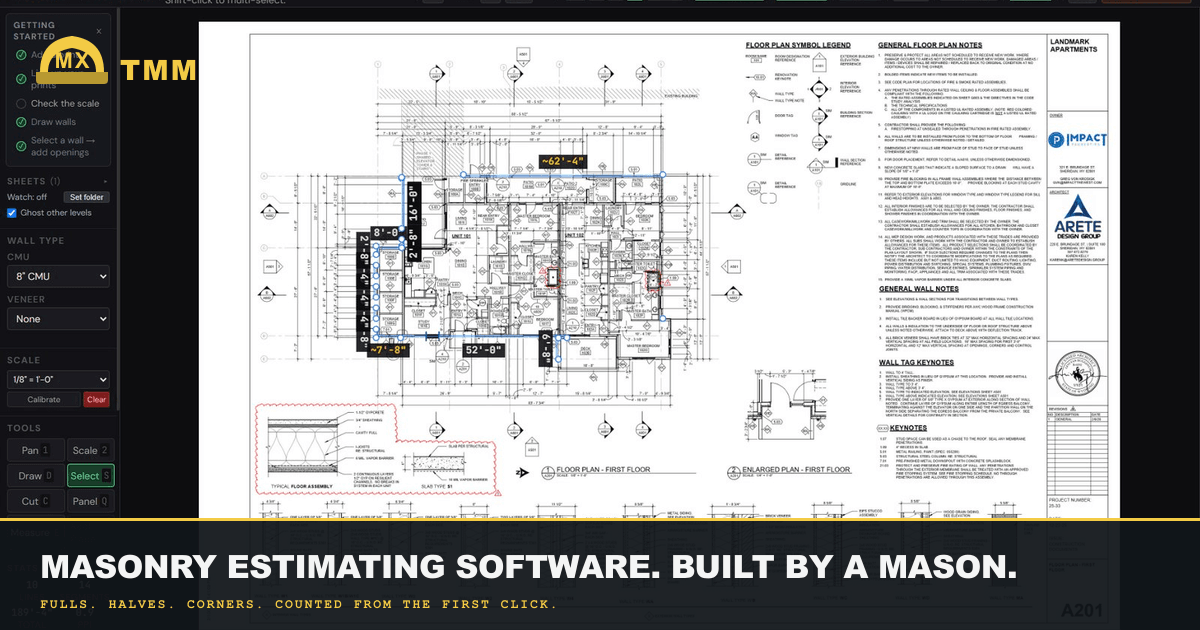
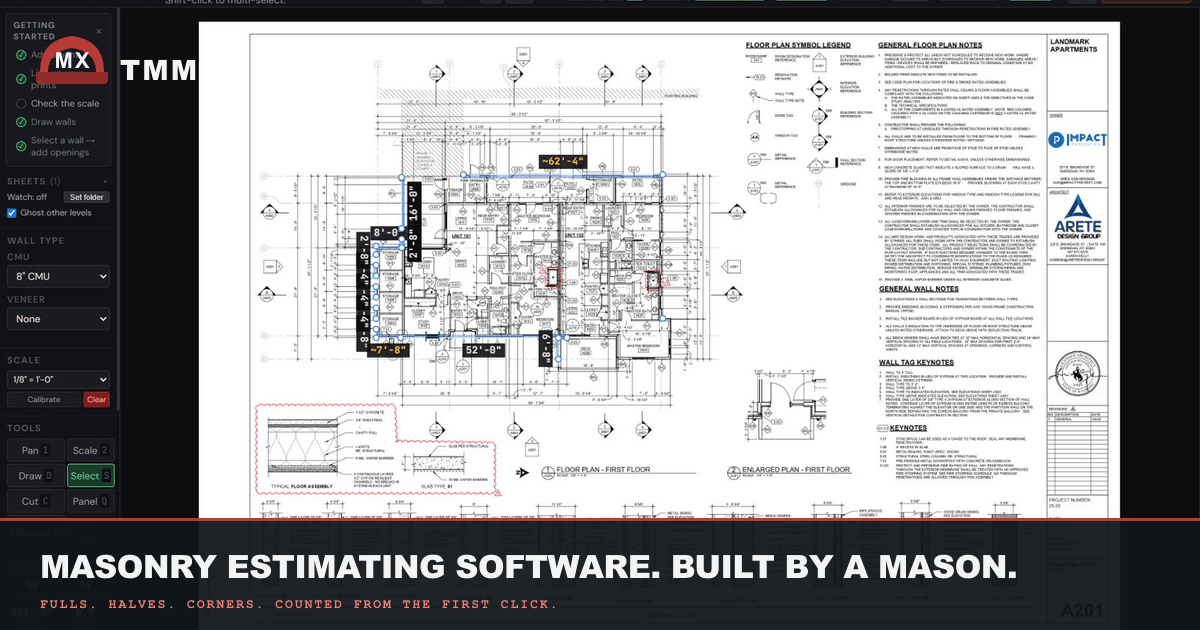
Use brick red accents across the marketing website

diff --git a/src/styles/global.css b/src/styles/global.css
@@ -1,14 +1,15 @@
 /* ============================================================
    THE MASONRY MODELER — Global Styles
-   Design language: contractor field sheets / concrete, charcoal, safety yellow
+   Design language: contractor field sheets / concrete, charcoal, brick red
    ============================================================ */
 
 :root {
-  /* Safety yellow is a surface/highlight, never small text on concrete. */
-  --signal: #f3cb45;
-  --signal-hover: #ffda61;
-  --signal-ink: #4d430a;
-  --on-signal: #171b1e;
+  /* Brick red actions use white labels; dark surfaces use the lighter text accent. */
+  --signal: #b83c36;
+  --signal-hover: #9e302b;
+  --signal-ink: #922d29;
+  --signal-light: #ed8178;
+  --on-signal: #ffffff;
   --terracotta: var(--signal);
   --terracotta-dark: var(--signal-ink);
   --navy: #292f34;
@@ -358,7 +359,7 @@ body {
 }
 
 .hero-sub strong {
-  background: linear-gradient(180deg, transparent 60%, rgba(243, 203, 69, 0.25) 60%);
+  background: linear-gradient(180deg, transparent 60%, rgba(184, 60, 54, 0.25) 60%);
   font-weight: 600;
 }
 
@@ -2727,7 +2728,7 @@ body {
 
 .bar-list-table tbody + tbody tr:first-child th,
 .bar-list-table tbody + tbody tr:first-child td {
-  border-top: 2px solid rgba(243, 203, 69, 0.3);
+  border-top: 2px solid rgba(184, 60, 54, 0.3);
 }
 
 .bar-mark { display: block; }
@@ -2852,7 +2853,7 @@ body {
   .comparison-col:last-child, .diff-th-tmm, .diff-td-tmm, .bar-list-details) {
   --text-body: #d5dce0;
   --text-muted: #b5c0c8;
-  --accent-text: var(--signal);
+  --accent-text: var(--signal-light);
   --line: #56616a;
 }
 :where(.sheet-index-panel, .hero-form, .render-stats, .rule-card,
@@ -2876,7 +2877,7 @@ button, input, select, textarea { font-family: var(--font-body); }
 ::selection { background: var(--signal); color: var(--on-signal); }
 :where(section[id], h2[id]) { scroll-margin-top: 100px; }
 
-/* Dark, level header. Navigation stays distinct from the yellow action. */
+/* Dark, level header. Navigation stays distinct from the red action. */
 .title-block { background: var(--navy-deep); color: var(--chalk); border-bottom: 1px solid #48535c; }
 .tb-cell { border-right-color: #48535c; }
 .tb-label { color: #b5c0c8; }
@@ -2889,9 +2890,9 @@ button, input, select, textarea { font-family: var(--font-body); }
 .tb-cta:hover { background: var(--signal-hover); }
 .tb-cta .tb-value { color: var(--on-signal); }
 .sheet-index-panel { border-color: var(--line); }
-.sheet-index-entry.is-current { --accent-text: var(--signal); }
-.mx-mark .mx-letters { fill: var(--on-signal); }
-.mx-mark .mx-brim { fill: #be9e32; }
+.sheet-index-entry.is-current { --accent-text: var(--signal-light); }
+.mx-mark .mx-letters { fill: var(--signal-ink); }
+.mx-mark .mx-brim { fill: var(--signal-ink); }
 
 /* The wall footage is the hero; no grid overlay, slanted type or fake depth. */
 .hero { min-height: auto; padding: 64px 0 72px; background: var(--navy-deep); color: var(--chalk); }
@@ -2907,11 +2908,11 @@ button, input, select, textarea { font-family: var(--font-body); }
 .hero-form { border: 1px solid #a4afb7; }
 .hero-form-input { font-family: var(--font-body); font-size: 16px; }
 .hero-form-input:focus-visible { outline: 2px solid var(--ink); outline-offset: -2px; }
-.hero-form-success { color: var(--signal); font-family: var(--font-body); font-size: 16px; letter-spacing: 0; }
+.hero-form-success { color: var(--signal-light); font-family: var(--font-body); font-size: 16px; letter-spacing: 0; }
 .hero .hero-cta-secondary { color: var(--chalk); border-color: #8e9ca6; background: transparent; }
 .hero .hero-cta-secondary:hover { color: var(--chalk); background: #343e46; border-color: var(--chalk); }
 
-/* Yellow is reserved for actions and short markers, always with dark text. */
+/* Brick red actions and short markers use white labels. */
 .hero-cta, .blog-post-body .post-cta-inline {
   background: var(--signal); color: var(--on-signal);
   min-height: 48px; letter-spacing: .05em;

diff --git a/CLAUDE.md b/CLAUDE.md
@@ -181,16 +181,17 @@ Google Fonts loaded via `<link>` in `Layout.astro` with `display=swap`.
 
 ### Color tokens (updated at Ryan's request, September 25, 2026)
 
-The website uses cool concrete, charcoal, and restrained safety yellow. Avoid returning to warm cream/rust, italic editorial-serif headings, decorative grid overlays, or large offset shadows. Use upright Oswald headings and Barlow prose.
+The website uses cool concrete, charcoal, and restrained brick red. Avoid returning to warm cream/rust, italic editorial-serif headings, decorative grid overlays, or large offset shadows. Use upright Oswald headings and Barlow prose.
 
-Semantic text colors depend on the surrounding light/dark surface; yellow small text is not suitable on light concrete. Existing `--terracotta` names are compatibility aliases, not the old orange palette.
+Semantic text colors depend on the surrounding light/dark surface; deep brick red is for actions and light-surface text; use the lighter red text accent on charcoal. Existing `--terracotta` names are compatibility aliases, not the old orange palette.
 
 CSS custom properties are defined at the top of `global.css`.
 | Token | Hex | Use |
 |-------|-----|-----|
-| `--signal` | `#f3cb45` | Yellow actions and highlights |
-| `--signal-ink` | `#4d430a` | Readable accent text on light surfaces |
-| `--on-signal` | `#171b1e` | Text on yellow |
+| `--signal` | `#b83c36` | Brick red actions and highlights |
+| `--signal-ink` | `#922d29` | Readable red text on light surfaces |
+| `--signal-light` | `#ed8178` | Readable red text on dark surfaces |
+| `--on-signal` | `#ffffff` | White text on red actions |
 | `--navy` | `#292f34` | Charcoal panels |
 | `--navy-deep` | `#171b1e` | Header, hero, dark sections |
 | `--chalk` | `#f2f4f5` | Light concrete surface / light text |
@@ -198,7 +199,7 @@ CSS custom properties are defined at the top of `global.css`.
 | `--concrete` | `#c3cbd0` | Secondary light text |
 | `--concrete-light` | `#e1e6e9` | Concrete surface |
 | `--text-muted` | context-dependent | Muted readable text |
-| `--accent-text` | context-dependent | Yellow on dark, dark accent on light |
+| `--accent-text` | context-dependent | Light red on dark, deep red on light |
 
 ### Grid / texture
 - Keep the useful sheet navigation and concise drawing labels.
